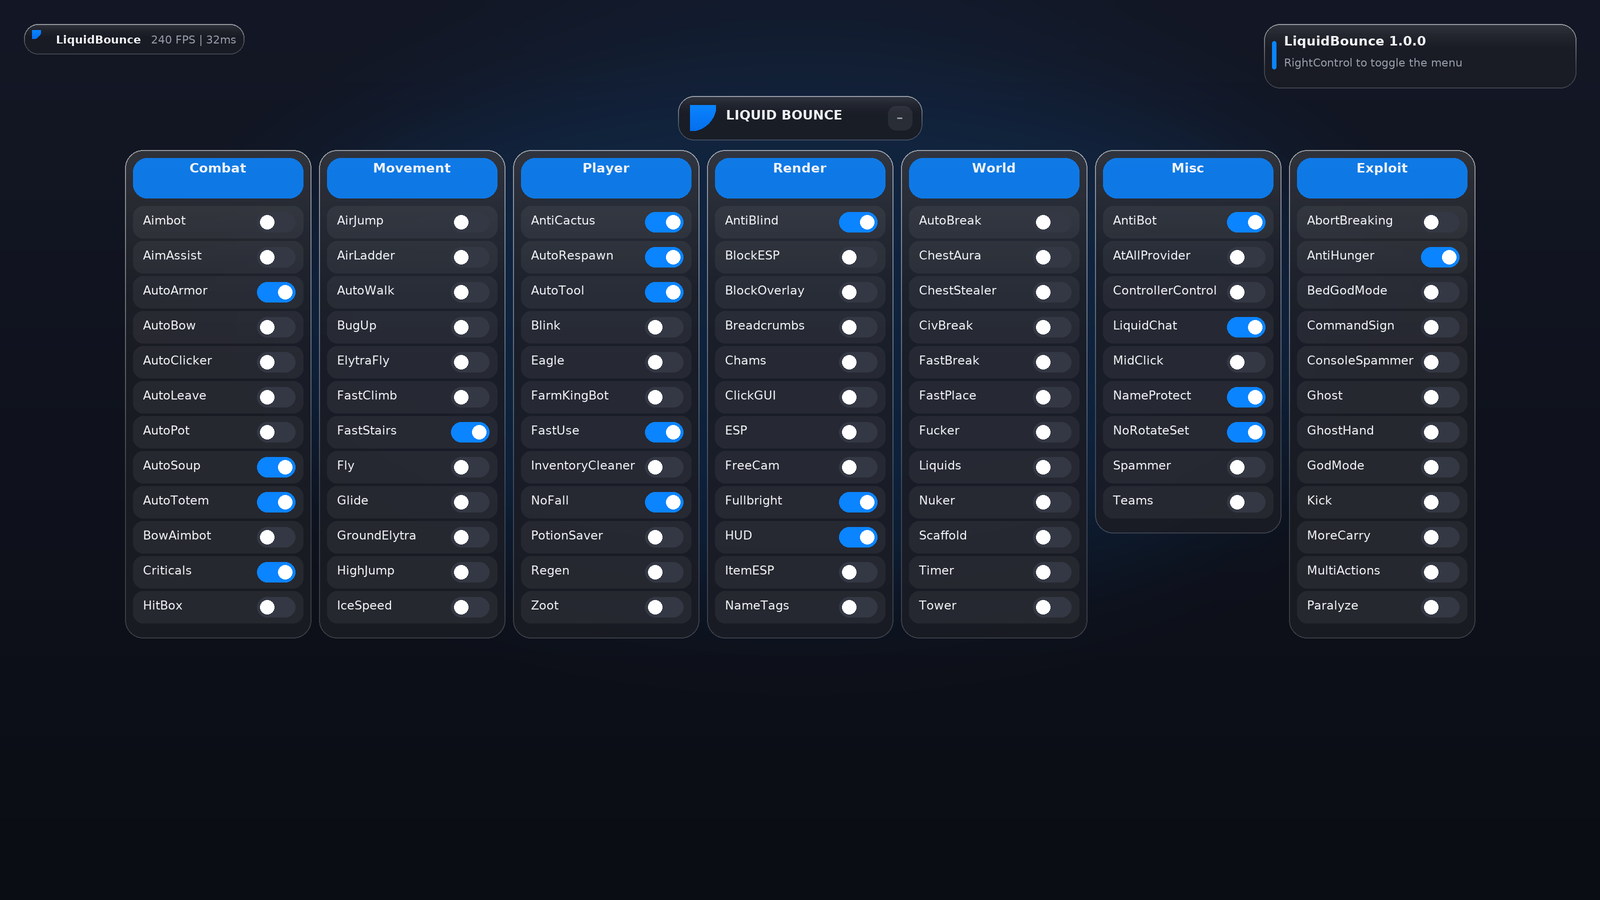
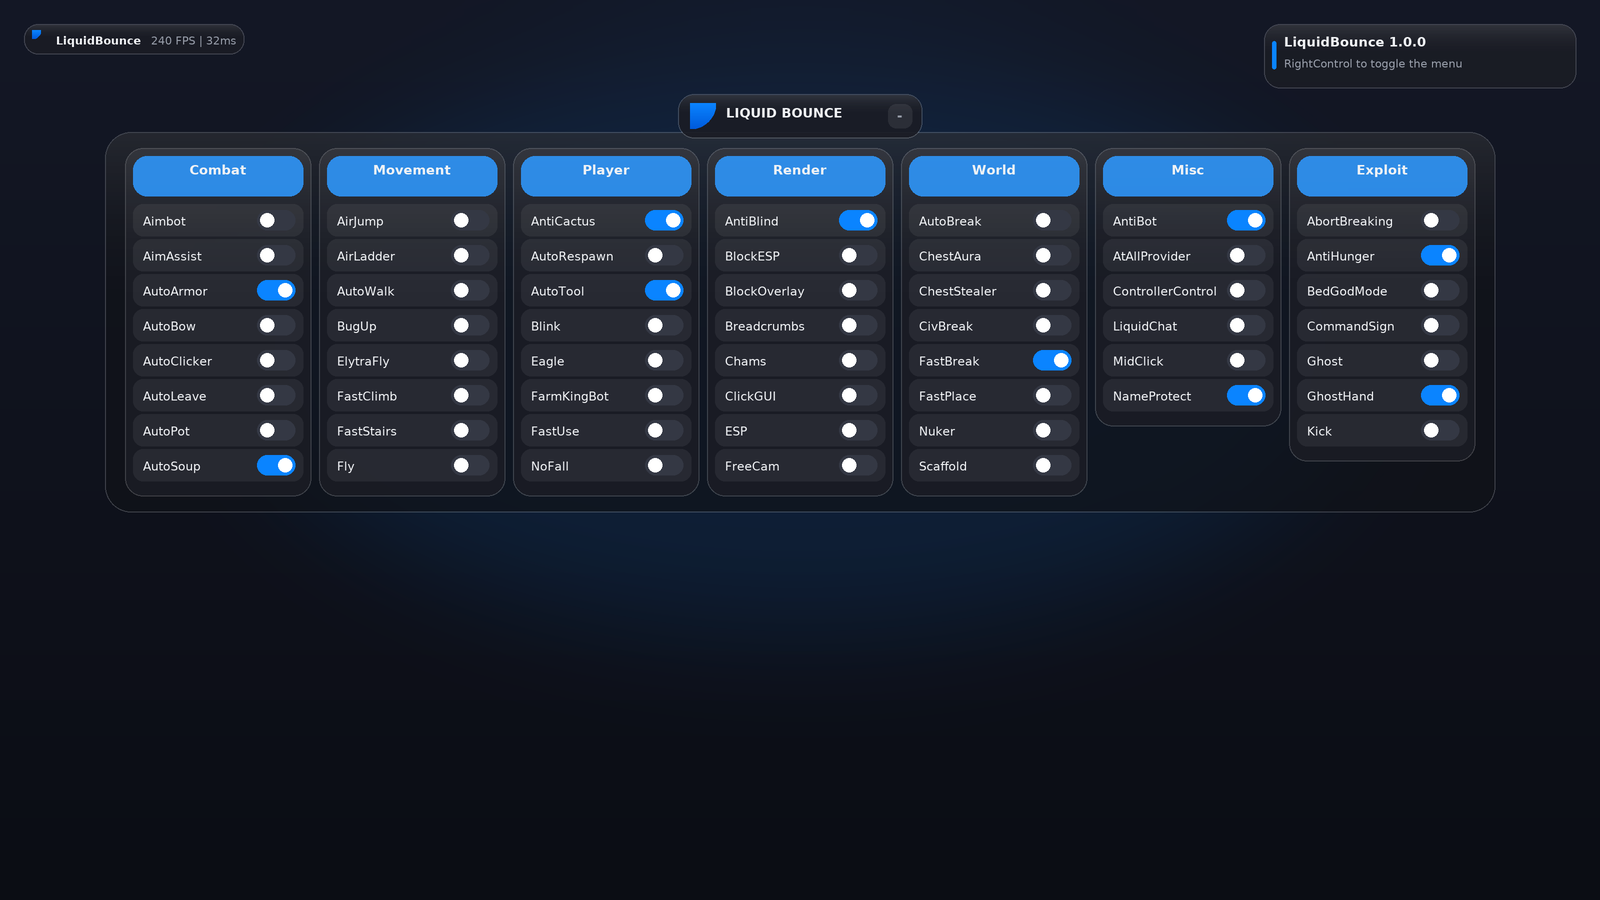
Fix invalid Roblox properties and rebuild the column layout (1.1.0)
- replace UIListLayout.FillDirectionMaxCells (UIGridLayout-only) with an
  explicit grid: Window:_RelayoutColumns positions columns per row and
  wraps categories onto further rows without overlapping
- drop ZIndex from UIStroke, AutomaticSize from ScrollingFrame and
  GroupTransparency tweens on plain Frames; Util.tween now maps
  GroupTransparency <-> BackgroundTransparency per class
- hiding the columns menu fades only the content, keeping the floating
  title bar clickable; search no longer hides all columns after SelectTab
- sanitise bad control input (slider bounds/step, dropdown options,
  keybinds, textbox defaults) and guard popup.Destroying

diff --git a/README.md b/README.md
@@ -145,3 +145,27 @@ Theme keys: `Accent`, `AccentDark`, `Background`, `Card`, `Stroke`, `Text`, `Sub
   scale; controls inside a card are laid out by a `UIListLayout`.
 * Dropdowns, multi-dropdowns and the colour picker open in a popup reparented to the
   ScreenGui, clamped to the viewport, and close on outside click.
+
+## Troubleshooting
+
+| Error | Cause / fix |
+| --- | --- |
+| `attempt to index nil with 'CreateWindow'` | `game:HttpGet` returned `nil`/a 404 page. The library is on the `arena/884cf208-ui` branch — use that URL (see *Loading*), or copy `LiquidBounce.lua` locally. |
+| `X is not a valid member of UIListLayout` | Fixed in 1.1.0: columns are laid out by an explicit grid instead of `FillDirectionMaxCells`, which only exists on `UIGridLayout`. |
+| Nothing shows up | Check the toggle key (`RightControl` by default), or call `Window:Toggle(true)`. Without a `BlurEffect` in `Lighting` the glass looks flatter but still works. |
+| Popups stuck open | Click anywhere outside them; they close on the next mouse press. |
+
+## Changelog
+
+### 1.1.0
+* Column layout rewritten: columns are positioned by an explicit grid (`Window._RelayoutColumns`),
+  so any number of categories works, wraps onto further rows and no longer overlaps.
+* Fixed invalid property usage: `FillDirectionMaxCells` on `UIListLayout`, `ZIndex` on `UIStroke`,
+  `GroupTransparency` on plain `Frame`s, `AutomaticSize` on `ScrollingFrame`.
+* Hiding the menu in `columns` layout now fades only the content — the floating
+  `LIQUID BOUNCE` bar stays clickable to reopen it.
+* `Util.tween` maps `GroupTransparency` <-> `BackgroundTransparency` depending on the class.
+* Search no longer hides every column when `SelectTab` runs; filtered columns are restored.
+* Bad user input (non-numeric slider bounds, non-table dropdown options, non-key keybinds,
+  nil textbox defaults) is sanitised instead of erroring.
+* Popups guard `Destroying` so executors without it cannot crash the UI.
